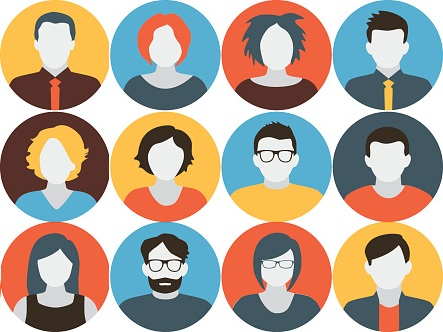
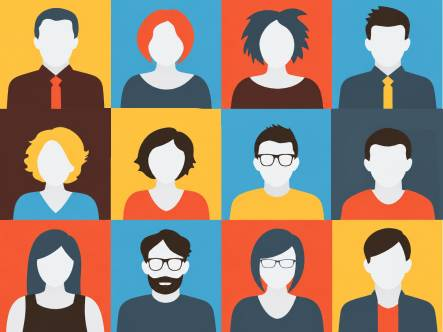
rediseño v1.3

diff --git a/static/styles.css b/static/styles.css
@@ -1241,12 +1241,6 @@ main {
 .retraso-1 { animation-delay: 0.2s; }
 .retraso-2 { animation-delay: 0.4s; }
 
-.header {
-    display: flex;
-    justify-content: space-between;
-    padding: 10px 20px;
-}
-
 .profile-menu {
     position: relative;
 }
@@ -1265,9 +1259,9 @@ main {
 
 .dropdown-menu {
     position: absolute;
-    top: 50px;
-    right: 0;
-    width: 180px;
+    top: calc(100% + 8px);
+    left: 0;
+    width: 190px;
     background: white;
     border-radius: 12px;
     box-shadow: 0 8px 20px rgba(0,0,0,0.15);
@@ -1275,6 +1269,10 @@ main {
     display: none;
     flex-direction: column;
     z-index: 100;
+}
+
+.dropdown-menu.open {
+    display: flex;
 }
 
 .dropdown-menu a {
@@ -1312,9 +1310,8 @@ main {
 
 .home-welcome {
   display: grid;
-  grid-template-columns: 68px minmax(0, 1fr);
-  align-items: center;
-  gap: 14px;
+  grid-template-columns: minmax(0, 1fr);
+  gap: 12px;
   position: relative;
   padding: 17px;
   margin: 2px 0 34px;
@@ -1324,17 +1321,55 @@ main {
   box-shadow: 0 8px 24px rgba(36, 51, 35, 0.06);
 }
 
+.home-welcome-heading {
+  width: 100%;
+}
+
+.home-welcome-main {
+  display: grid;
+  grid-template-columns: minmax(0, 1fr) minmax(0, 2.5fr);
+  align-items: center;
+  gap: 16px;
+  width: 100%;
+}
+
 .home-screen .home-avatar {
-  width: 68px;
-  height: 68px;
+  width: 100%;
+  height: auto;
+  aspect-ratio: 1;
   background-size: 400% 300%;
   border-radius: 16px;
-  align-self: center;
+}
+
+.home-profile-menu {
+  width: 100%;
+  height: auto;
+  aspect-ratio: 1;
+  z-index: 2;
+  justify-items: start;
+  align-content: center;
+}
+
+.home-profile-trigger {
+  display: block;
+  padding: 0;
+  border: 0;
+  cursor: pointer;
+}
+
+.home-profile-trigger:focus-visible {
+  outline: 3px solid #79b532;
+  outline-offset: 3px;
+}
+
+.home-profile-menu .dropdown-menu {
+  top: calc(100% + 10px);
 }
 
 .home-welcome-copy {
   min-width: 0;
-  padding: 15px;
+  height: 100%;
+  padding: 12px;
   background-color: azure;
   border-radius: 10px;
 }
@@ -1465,10 +1500,45 @@ main {
 }
 
 .home-streak-bar {
-  grid-column: 1 / -1;
-  display: flex;
+  display: grid;
+  gap: 12px;
   width: 100%;
-  justify-content: flex-end;
+}
+
+.home-level {
+  display: grid;
+  gap: 7px;
+}
+
+.home-level-label {
+  display: flex;
+  align-items: center;
+  justify-content: space-between;
+  gap: 10px;
+  color: #202944;
+  font-size: 0.8rem;
+  font-weight: 700;
+}
+
+.home-level-track {
+  height: 10px;
+  overflow: hidden;
+  border-radius: 999px;
+  background: #e9eee3;
+}
+
+.home-level-progress {
+  display: block;
+  height: 100%;
+  border-radius: inherit;
+  background: linear-gradient(90deg, #79b532, #a0cf4a);
+  border: 1px solid rgba(32, 41, 68, 0.05);
+  border-radius: 20px;
+  box-shadow: 0 8px 24px rgba(36, 51, 35, 0.06);
+}
+
+.home-streak-summary {
+  margin: -24px 0 17px;
 }
 
 .home-streak-count {
@@ -1499,7 +1569,7 @@ main {
 
 .home-action-card {
   display: grid;
-  min-height: 165px;
+  min-height: 215px;
   align-content: end;
   justify-items: center;
   gap: 7px;
@@ -1728,14 +1798,19 @@ main {
   }
 
   .home-welcome {
-    grid-template-columns: 58px minmax(0, 1fr);
-    gap: 11px;
+    grid-template-columns: minmax(0, 1fr);
+    gap: 10px;
     padding: 14px;
   }
 
-  .home-screen .home-avatar {
-    width: 58px;
-    height: 58px;
+  .home-welcome-main {
+    grid-template-columns: minmax(0, 1fr) minmax(0, 2.5fr);
+    gap: 11px;
+  }
+
+  .home-profile-menu {
+    width: 100%;
+    height: auto;
   }
 
   .home-action-grid {
@@ -1743,7 +1818,7 @@ main {
   }
 
   .home-action-card {
-    min-height: 88px;
+    min-height: 170px;
     font-size: 0.67rem;
   }
 

diff --git a/templates/index.html b/templates/index.html
@@ -5,14 +5,47 @@
 {% block content %}
 <main class="container home-screen">
   <section class="home-welcome" aria-labelledby="welcome-title">
-    <div class="home-avatar header-img avatar-{{ stats.avatar_id }}" role="img" aria-label="Tu avatar"></div>
-    <div class="home-welcome-copy">
+    <div class="home-welcome-heading">
       <p class="home-eyebrow">Tu espacio ecológico</p>
-      <h1 id="welcome-title">Hola, <span>{{ user }}</span></h1>
-      <p>Pequeñas acciones pueden cambiar el mundo.</p>
     </div>
-    <!-- <a class="home-trivia-link" href="{{ url_for('trivia') }}">Jugar trivia <span aria-hidden="true">→</span></a> -->
+    <div class="home-welcome-main">
+      <div class="profile-menu home-profile-menu">
+        <button class="home-avatar header-img avatar-{{ stats.avatar_id }} home-profile-trigger"
+                id="profile-menu-toggle"
+                type="button"
+                aria-label="Abrir menú del perfil"
+                aria-expanded="false"
+                aria-controls="dropdownMenu"></button>
+        <nav id="dropdownMenu" class="dropdown-menu" aria-label="Menú del perfil">
+          <a href="/perfil">{% include 'icons/user.svg' %}Perfil</a>
+          <a href="/historial">{% include 'icons/settings.svg' %}Configuración</a>
+          <hr>
+          <a href="{{ url_for('logout') }}" class="logout">{% include 'icons/logout-2.svg' %}Cerrar sesión</a>
+        </nav>
+      </div>
+      <div class="home-welcome-copy">
+        <h1 id="welcome-title">Hola, <span>{{ user }}</span></h1>
+        <p>Pequeñas acciones pueden cambiar el mundo.</p>
+      </div>
+    </div>
+  </section>
+
+  <section class="home-streak-summary">
     <div class="home-streak-bar">
+      <div class="home-level">
+        <div class="home-level-label">
+          <span>Nivel 1: Explorador eco</span>
+          <span>30%</span>
+        </div>
+        <div class="home-level-track"
+             role="progressbar"
+             aria-label="Nivel 1: Explorador eco"
+             aria-valuemin="0"
+             aria-valuemax="100"
+             aria-valuenow="30">
+          <span class="home-level-progress" style="width: 30%"></span>
+        </div>
+      </div>
       <p class="home-streak-count"><strong>{{ stats.get('racha_actual', 0) }}</strong> días de racha <span aria-hidden="true">💚</span></p>
     </div>
   </section>

diff --git a/templates/base.html b/templates/base.html
@@ -9,41 +9,6 @@
 </head>
 
 <body>
-<header class="header">
-    <div class="header-img avatar-{{ stats.avatar_id }}"></div>
-    <div><strong>
-    {% set page_names = {
-        'index': 'Inicio',
-        'history': 'Historial',
-        'tips': 'Tips',
-        'places': 'Lugares',
-        'perfil': 'Perfil',
-        'guide': 'Guía',
-        'trivia': 'Trivia'
-    } %}
-    {{ page_names.get(request.endpoint, 'Inicio') }}</strong>
-</div>
-
-    <div>
-        <div class="profile-menu">
-            <div class="menu-icon" onclick="toggleMenu()">
-                {% include 'icons/menu-2.svg' %}
-            </div>
-
-            <div id="dropdownMenu" class="dropdown-menu">
-                <a href="/perfil">{% include 'icons/user.svg' %}
-                    Perfil</a>
-                <a href="/historial">{% include 'icons/settings.svg' %}
-                    Configuración</a>
-                <hr>
-                <a href="{{ url_for('logout') }}" class="logout">
-                    {% include 'icons/logout-2.svg' %}
-                    Cerrar sesión
-                </a>
-            </div>
-        </div>
-    </div>
-</header>
     {% block content %}{% endblock %}
 
     <nav class="floating-island" aria-label="Accesos rapidos">
@@ -73,20 +38,4 @@
     </footer>
 
 </body>
-
-<script>
-function toggleMenu() {
-    const menu = document.getElementById("dropdownMenu");
-    menu.style.display = menu.style.display === "flex" ? "none" : "flex";
-}
-
-window.addEventListener("click", function(e) {
-    const menu = document.getElementById("dropdownMenu");
-    const profile = document.querySelector(".menu-icon");
-
-    if (!profile.contains(e.target) && !menu.contains(e.target)) {
-        menu.style.display = "none";
-    }
-});
-</script>
 </html>

diff --git a/static/app.js b/static/app.js
@@ -18,6 +18,35 @@ const btnCapture = document.getElementById('btn-capture');
 const switchCameraBtn = document.getElementById('switch-camera');
 let currentFacingMode = 'environment';
 
+const profileMenuToggle = document.getElementById('profile-menu-toggle');
+const profileDropdown = document.getElementById('dropdownMenu');
+
+function closeProfileMenu() {
+  if (!profileDropdown || !profileMenuToggle) return;
+  profileDropdown.classList.remove('open');
+  profileMenuToggle.setAttribute('aria-expanded', 'false');
+}
+
+if (profileMenuToggle && profileDropdown) {
+  profileMenuToggle.addEventListener('click', () => {
+    const isOpen = profileDropdown.classList.toggle('open');
+    profileMenuToggle.setAttribute('aria-expanded', String(isOpen));
+  });
+
+  document.addEventListener('click', event => {
+    if (!profileDropdown.contains(event.target) && !profileMenuToggle.contains(event.target)) {
+      closeProfileMenu();
+    }
+  });
+
+  document.addEventListener('keydown', event => {
+    if (event.key === 'Escape' && profileDropdown.classList.contains('open')) {
+      closeProfileMenu();
+      profileMenuToggle.focus();
+    }
+  });
+}
+
 if (dropZone && fileInput) {
   dropZone.addEventListener('dragover', e => {
     e.preventDefault();
